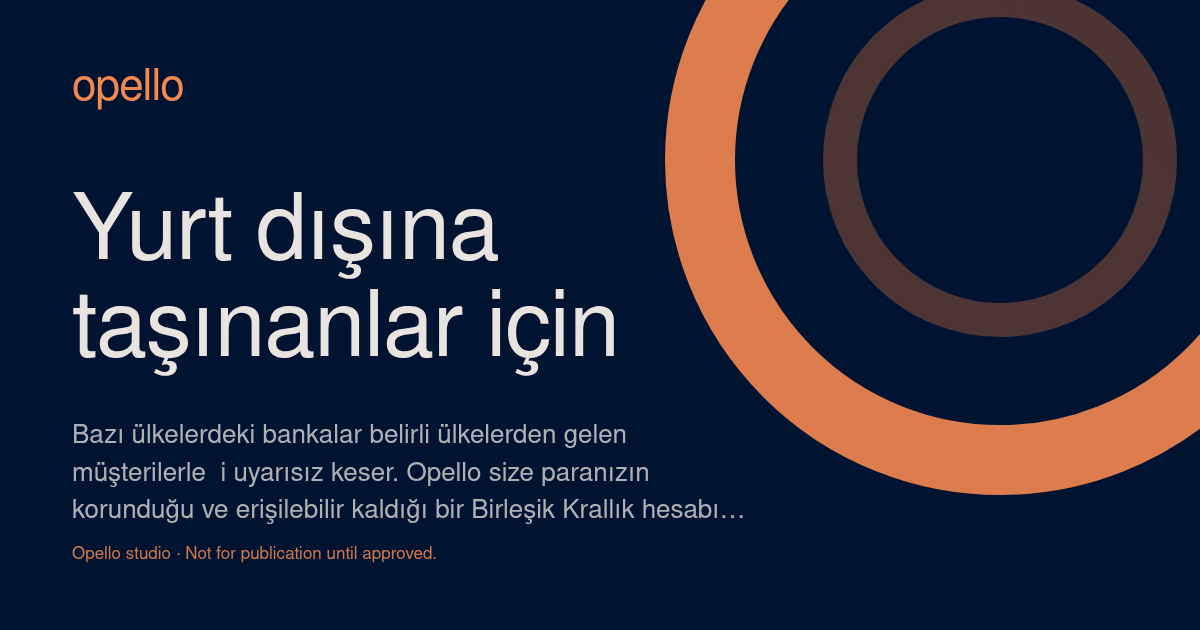
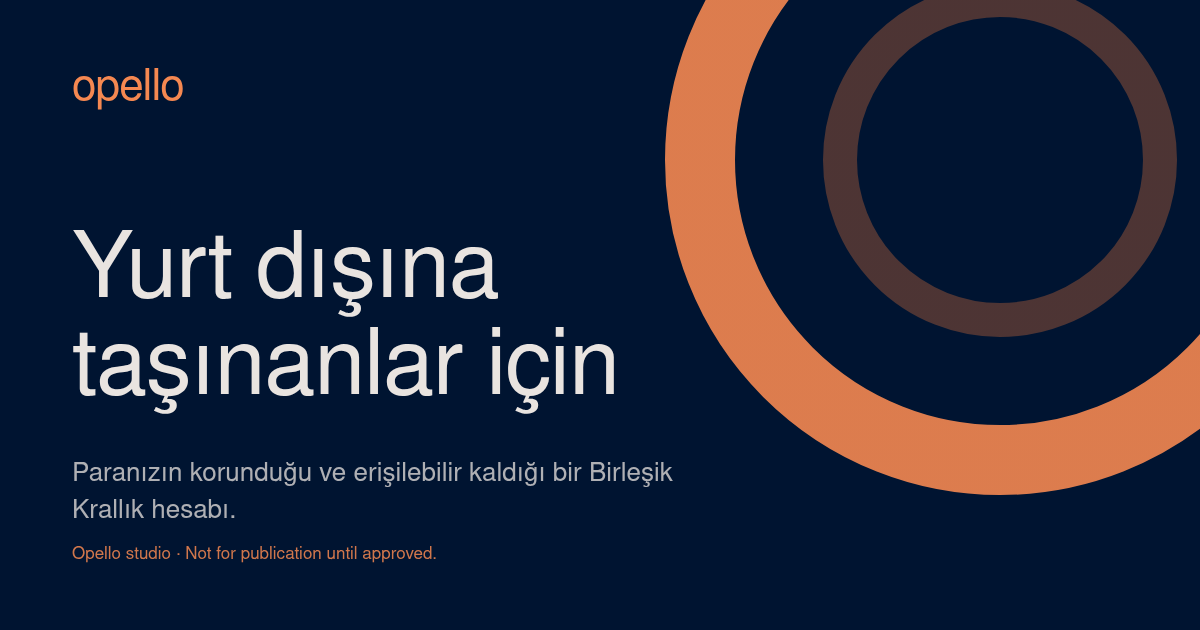
studio tr: fix corrupted Turkish copy (müşterilerle ilişkiyi, birikim havuzları heading) and add short meta descriptions to tr/for-residents and tr/for-immigrants (metas pending sign-off)
🪂 Generated with [Skydive](https://skydive.com)

Changed region(s): [[0.0617, 0.3016, 0.5858, 0.8444]]

diff --git a/src/lib/studio/pages-translated.ts b/src/lib/studio/pages-translated.ts
@@ -2259,6 +2259,7 @@ export const pagesByLang: Record<Lang, StudioPage[]> = {
       title: "Yurt dışından para alanlar için",
       kicker: "Kimin için",
       lede: "Yerel hesaplar ülke içinde çalışır, ama yurt dışından para almak ve göndermek yavaş, pahalı veya engellenmiş olur. Opello size hayatınızla birlikte hareket eden bir Birleşik Krallık hesabı verir.",
+      metaDescription: "Yurt dışından para alın ve anavatana gönderin; her ödemeden önce tam maliyet gösterilir.", // shorter than the lede for search snippets; lede untouched
       source: "placeholder",
       sourceNotes: ["Kaynak: web sitesi yapısı sunumu v18 (NIAN Capital, 11 Kasım 2026). MLP1 kapsamı gereği yalnız GBP."],
       sections: [
@@ -2277,7 +2278,7 @@ export const pagesByLang: Record<Lang, StudioPage[]> = {
       sourceNotes: ["Kaynak: web sitesi yapısı sunumu v18 (NIAN Capital, 11 Kasım 2026). MLP1 kapsamı gereği yalnız GBP."],
       sections: [
         { heading: "Birikiminizi GBP olarak tutun", body: "Birikiminizi her ay değer kaybeden bir para birimi yerine GBP hesabında tutun." },
-        { heading: "Sizi düzenli tutan birikimculatedir", body: "Önemli olan şeyler için parayı ayrı bidonlarda ayırın ve her birinin büyümesini izleyin." },
+        { heading: "Sizi düzenli tutan birikim havuzları", body: "Önemli olan şeyler için parayı ayrı bidonlarda ayırın ve her birinin büyümesini izleyin." },
         { heading: "Birleşik Krallık'ta güvende, her zaman erişilebilir", body: "Paranız korunur ve ihtiyacınız olduğunda erişilebilir kalır." }
       ],
       cta: { label: "Hesabınızı açın", href: "/studio/open-account/" }
@@ -2286,7 +2287,8 @@ export const pagesByLang: Record<Lang, StudioPage[]> = {
       slug: "for-immigrants",
       title: "Yurt dışına taşınanlar için",
       kicker: "Kimin için",
-      lede: "Bazı ülkelerdeki bankalar belirli ülkelerden gelen müşterilerle关系i uyarısız keser. Opello size paranızın korunduğu ve erişilebilir kaldığı bir Birleşik Krallık hesabı verir.",
+      lede: "Bazı ülkelerdeki bankalar belirli ülkelerden gelen müşterilerle ilişkiyi uyarısız keser. Opello size paranızın korunduğu ve erişilebilir kaldığı bir Birleşik Krallık hesabı verir.",
+      metaDescription: "Paranızın korunduğu ve erişilebilir kaldığı bir Birleşik Krallık hesabı.", // shorter than the lede for search snippets; lede untouched
       source: "placeholder",
       sourceNotes: ["Kaynak: web sitesi yapısı sunumu v18 (NIAN Capital, 11 Kasım 2026). Düzenleyici ifadeler yayınlanmadan önce uyum onayı gerektirir."],
       sections: [
